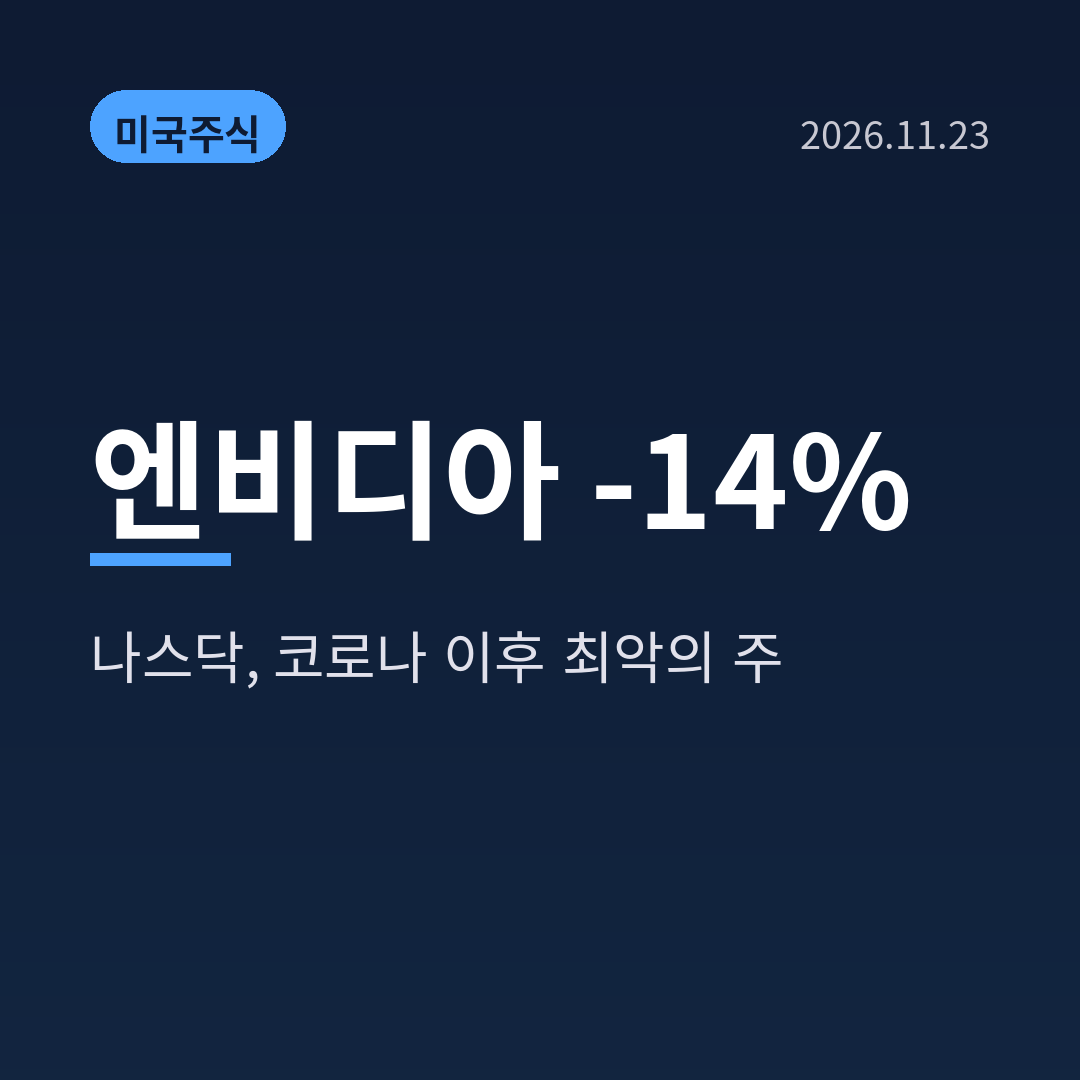
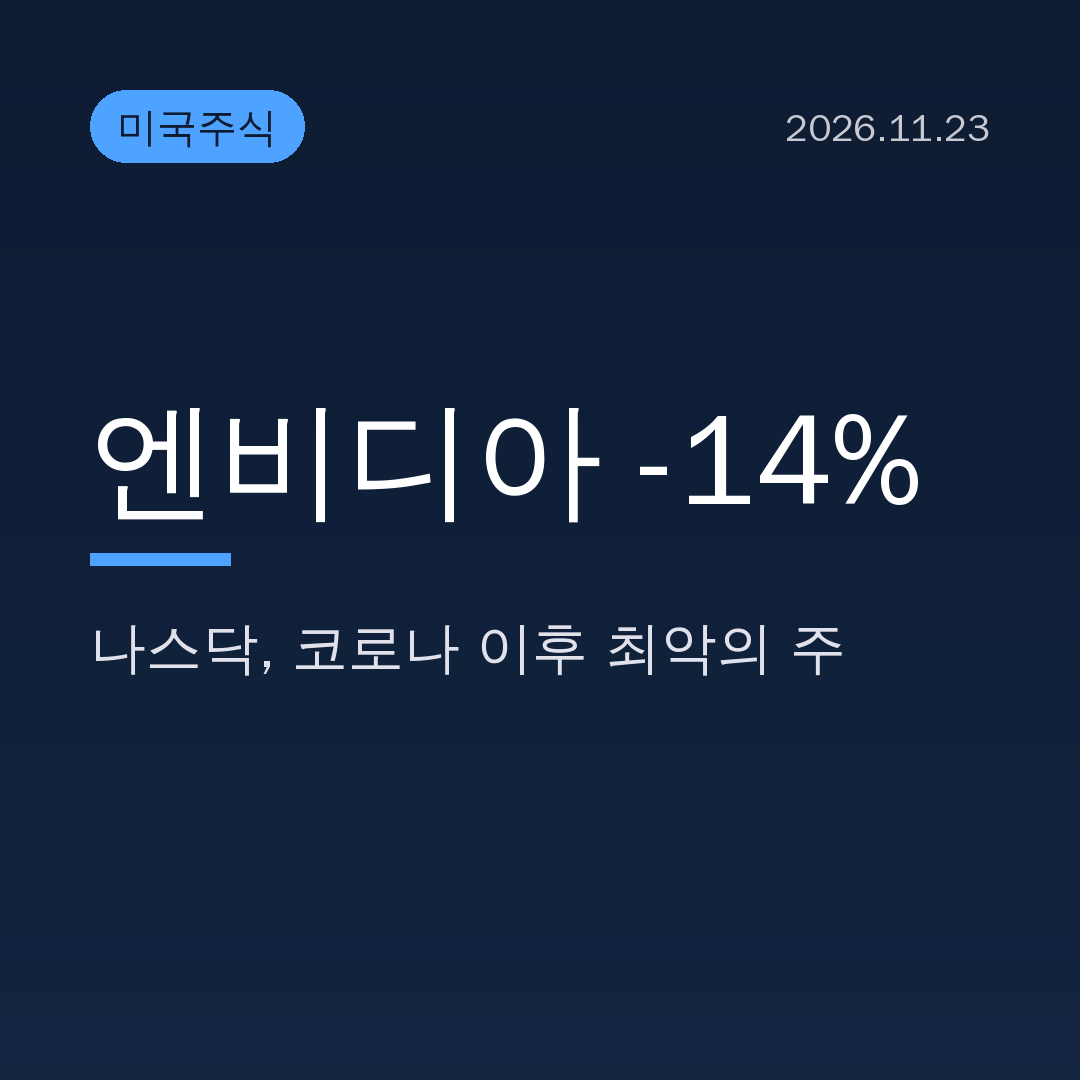
Send Naver-ready blog text with tables rendered as images; add resend mode
Claude-Session: https://claude.ai/code/session_013vGzYYyWWjhxAXQc8V73hZ

diff --git a/content-bot/naver_format.py b/content-bot/naver_format.py
@@ -1,0 +1,103 @@
+"""마크다운 초안을 네이버 블로그에 붙여넣기 좋은 형태로 바꾼다.
+- 표 → PNG 이미지 (본문엔 '📊 [표 이미지 N 넣기]' 자리 표시)
+- ##, **, - 같은 마크다운 기호 제거
+"""
+from __future__ import annotations
+
+import re
+from pathlib import Path
+
+from PIL import Image, ImageDraw
+
+from thumbnail import _font
+
+UP, DOWN = (224, 49, 49), (25, 113, 194)  # 한국식: 상승 빨강, 하락 파랑
+
+
+def _is_table_line(line: str) -> bool:
+    s = line.strip()
+    return s.startswith("|") and s.endswith("|") and s.count("|") >= 3
+
+
+def _is_separator(cells: list[str]) -> bool:
+    return all(re.fullmatch(r":?-{2,}:?", c.replace(" ", "")) for c in cells if c) and any(cells)
+
+
+def _strip_inline(text: str) -> str:
+    text = re.sub(r"\*\*(.+?)\*\*", r"\1", text)
+    text = re.sub(r"__(.+?)__", r"\1", text)
+    text = re.sub(r"(?<!\*)\*(?!\s)(.+?)(?<!\s)\*(?!\*)", r"\1", text)
+    text = re.sub(r"`([^`]+)`", r"\1", text)
+    text = re.sub(r"\[([^\]]+)\]\((https?://[^)]+)\)", r"\1 (\2)", text)
+    return text
+
+
+def table_image(rows: list[list[str]], out: Path) -> Path:
+    head_f, body_f = _font(True, 34), _font(False, 32)
+    pad_x, row_h, margin = 28, 70, 40
+    tmp = ImageDraw.Draw(Image.new("RGB", (10, 10)))
+    ncol = max(len(r) for r in rows)
+    rows = [r + [""] * (ncol - len(r)) for r in rows]
+    widths = [max(tmp.textlength(r[c], font=head_f if i == 0 else body_f) for i, r in enumerate(rows)) + pad_x * 2
+              for c in range(ncol)]
+    W = int(sum(widths)) + margin * 2
+    H = row_h * len(rows) + margin * 2
+    img = Image.new("RGB", (max(W, 600), H), (255, 255, 255))
+    d = ImageDraw.Draw(img)
+    y = margin
+    for i, r in enumerate(rows):
+        bg = (33, 41, 61) if i == 0 else ((246, 248, 251) if i % 2 == 0 else (255, 255, 255))
+        d.rectangle([margin, y, margin + sum(widths), y + row_h], fill=bg)
+        x = margin
+        for c, cell in enumerate(r):
+            cell = _strip_inline(cell)
+            if i == 0:
+                color, font = (255, 255, 255), head_f
+            else:
+                font = body_f
+                color = UP if cell.startswith("+") else DOWN if re.match(r"^-\d", cell) else (33, 37, 41)
+            numeric = c > 0 and (i == 0 or re.match(r"^[+\-$₩]?[\d,.]+%?[^\s]*$", cell))
+            if numeric:
+                d.text((x + widths[c] - pad_x, y + row_h / 2), cell, font=font, fill=color, anchor="rm")
+            else:
+                d.text((x + pad_x, y + row_h / 2), cell, font=font, fill=color, anchor="lm")
+            x += widths[c]
+        d.line([margin, y + row_h, margin + sum(widths), y + row_h], fill=(222, 226, 230), width=2)
+        y += row_h
+    out.parent.mkdir(parents=True, exist_ok=True)
+    img.save(out, "PNG")
+    return out
+
+
+def convert(body: str, out_dir: Path) -> tuple[str, list[Path]]:
+    """(네이버용 본문, 표 이미지 경로 목록)"""
+    lines = body.splitlines()
+    out_lines, images, i = [], [], 0
+    while i < len(lines):
+        if _is_table_line(lines[i]):
+            block = []
+            while i < len(lines) and _is_table_line(lines[i]):
+                block.append([c.strip() for c in lines[i].strip().strip("|").split("|")])
+                i += 1
+            rows = [r for r in block if not _is_separator(r)]
+            n = len(images) + 1
+            images.append(table_image(rows, out_dir / f"table_{n}.png"))
+            out_lines.append(f"📊 [표 이미지 {n} 넣기]")
+            continue
+        line = lines[i]
+        m = re.match(r"^\s{0,3}#{1,6}\s+(.*)$", line)
+        if m:
+            title = m.group(1).strip()
+            line = title if title.startswith(("■", "📌", "✅")) else f"■ {title}"
+        elif re.match(r"^\s*[-*]\s+\[[ xX]\]\s+", line):
+            line = re.sub(r"^\s*[-*]\s+\[[ xX]\]\s+", "✅ ", line)
+        elif re.match(r"^\s*[-*]\s+", line):
+            line = re.sub(r"^\s*[-*]\s+", "• ", line)
+        elif re.match(r"^\s*(---+|\*\*\*+)\s*$", line):
+            line = ""
+        elif line.startswith(">"):
+            line = line.lstrip("> ").strip()
+        out_lines.append(_strip_inline(line))
+        i += 1
+    text = re.sub(r"\n{3,}", "\n\n", "\n".join(out_lines)).strip()
+    return text, images

diff --git a/content-bot/main.py b/content-bot/main.py
@@ -13,6 +13,7 @@ from pathlib import Path
 
 import collect
 import config
+import naver_format
 import thumbnail
 
 ROOT = Path(__file__).resolve().parent.parent
@@ -42,12 +43,16 @@ def main():
     ap.add_argument("--dry-run", action="store_true", help="Claude 호출 없이 수집 결과와 프롬프트만 저장")
     ap.add_argument("--fixture", help="수집 대신 이 JSON 파일의 데이터를 사용 (테스트용)")
     ap.add_argument("--no-telegram", action="store_true")
+    ap.add_argument("--resend", action="store_true",
+                    help="Claude를 다시 부르지 않고 오늘 저장된 초안을 새 형식으로 다시 보냄 (비용 0원)")
     args = ap.parse_args()
 
     now = dt.datetime.now(KST)
     day_dir = DRAFTS / now.strftime("%Y-%m-%d")
     day_dir.mkdir(parents=True, exist_ok=True)
 
+    if args.resend:
+        args.fixture = str(day_dir / f"data_{args.mode}.json")
     data = json.loads(Path(args.fixture).read_text(encoding="utf-8")) if args.fixture else collect.collect_all()
     (day_dir / f"data_{args.mode}.json").write_text(json.dumps(data, ensure_ascii=False, indent=1), encoding="utf-8")
     counts = {k: len(v) for k, v in data.items() if isinstance(v, list)}
@@ -63,8 +68,13 @@ def main():
         log.info("dry-run: 프롬프트 저장 → %s", day_dir)
         return
 
-    draft = writer.write(args.mode, data, history)
-    (day_dir / f"raw_{args.mode}.txt").write_text(draft.pop("_raw"), encoding="utf-8")
+    raw_file = day_dir / f"raw_{args.mode}.txt"
+    if args.resend:
+        draft = writer.parse_tags(raw_file.read_text(encoding="utf-8"))
+        history = [h for h in history if not (h["date"] == now.strftime("%Y-%m-%d") and h["mode"] == args.mode)]
+    else:
+        draft = writer.write(args.mode, data, history)
+        raw_file.write_text(draft.pop("_raw"), encoding="utf-8")
 
     entry = {"date": now.strftime("%Y-%m-%d"), "mode": args.mode, "category": draft.get("category", "")}
     files = {}
@@ -76,6 +86,9 @@ def main():
         files["thumb"] = thumbnail.make(draft.get("thumbnail_line1", draft.get("blog_title", "")),
                                         draft.get("thumbnail_line2", ""), draft.get("category", ""),
                                         now.strftime("%Y.%m.%d"), config.BRAND_NAME, day_dir / "thumbnail.png")
+        naver_text, files["tables"] = naver_format.convert(draft["blog_body"], day_dir)
+        files["naver"] = day_dir / "blog_naver.txt"
+        files["naver"].write_text(f"{naver_text}\n\n{draft.get('hashtags', '')}\n", encoding="utf-8")
         entry["title"] = draft.get("blog_title", "")
     x_file = day_dir / f"x_{args.mode}.txt"
     x_file.write_text(draft["x_post"], encoding="utf-8")
@@ -93,13 +106,17 @@ def main():
     import telegram
     md = now.strftime("%m/%d")
     if args.mode == "morning":
+        n_tab = len(files.get("tables", []))
         telegram.send_text(f"☀ {md} 아침 초안 도착\n블로그 1개 + X 1개 · 주제: {draft.get('category', '')}\n"
-                           f"아래 순서: ① 썸네일 ② 블로그 제목 ③ 본문 ④ 원본 파일 ⑤ X 글")
+                           f"순서: ① 썸네일 ② 표 이미지 {n_tab}장 ③ 블로그 제목 ④ 본문 ⑤ X 글")
         if "thumb" in files:
-            telegram.send_photo(files["thumb"], caption="① 썸네일")
+            telegram.send_photo(files["thumb"], caption="① 썸네일 (블로그 대표 이미지)")
+            for k, img in enumerate(files["tables"], 1):
+                telegram.send_photo(img, caption=f"② 표 이미지 {k} → 본문의 '📊 [표 이미지 {k} 넣기]' 자리에 넣으세요")
+            telegram.send_text("③ 제목 ↓")
             telegram.send_text(draft.get("blog_title", ""))
-            telegram.send_text(f"{draft['blog_body']}\n\n{draft.get('hashtags', '')}")
-            telegram.send_document(files["blog"], caption="④ 블로그 원본 (.md)")
+            telegram.send_text("④ 본문 ↓ (네이버에 그대로 붙여넣기)")
+            telegram.send_text(files["naver"].read_text(encoding="utf-8"))
         telegram.send_text("⑤ 🐦 X 초안 ↓ (그대로 복사해서 쓰세요)")
     else:
         telegram.send_text(f"🌆 {md} 오후 X 초안 ↓ (그대로 복사해서 쓰세요)")

diff --git a/content-bot/style_guide.md b/content-bot/style_guide.md
@@ -14,7 +14,7 @@
   1. 도입 2~3줄: "안녕하세요, 오늘은 ~ 이야기를 해보려 합니다" 식의 대화체로 시작, 왜 지금 이 주제가 중요한지.
   2. `📌 3줄 요약` (번호 매긴 3줄)
   3. 소제목 3~5개 (`■ 소제목` 형식). 각 소제목 아래 300~700자.
-  4. 숫자가 3개 이상이면 표로 정리 (마크다운 표 → 블로그 표로 옮기기 쉬움).
+  4. 숫자가 3개 이상이면 마크다운 표로 정리 (자동으로 표 이미지로 바뀌어 전송됨). 표는 글 전체에 1~2개.
   5. 소제목마다 `[이미지: 어떤 차트/사진을 넣으면 좋은지]` 한 줄 제안.
   6. `■ 그래서 우리는?` 섹션: 개인 투자자가 체크할 포인트 3개 (체크박스 ✅).
   7. 마무리: 한 줄 정리 + 이웃추가/공감 유도 한 줄.
